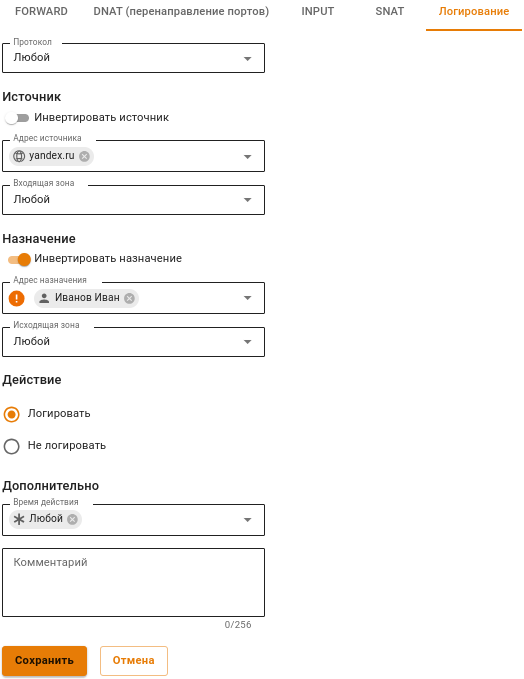
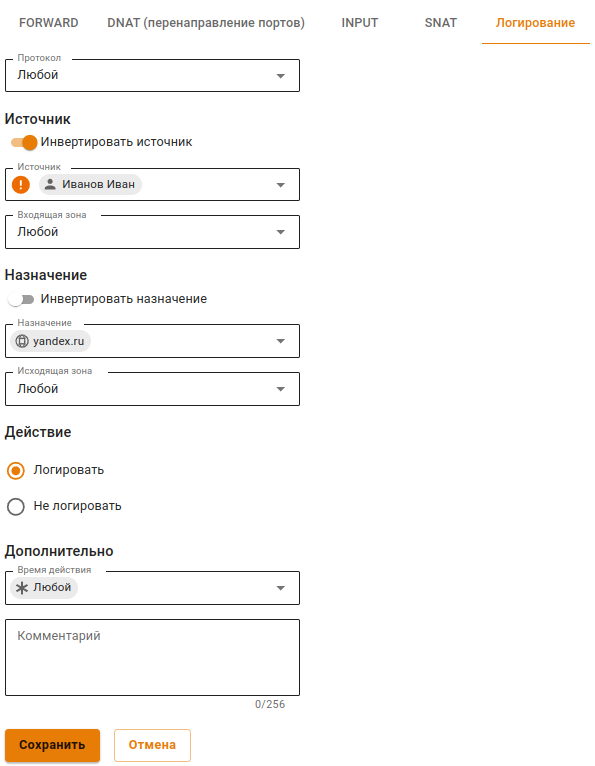
ICS-33917 УТМ. Добавить описание логирования трафика от пользователя

diff --git a/settings/access-rules/logging.md b/settings/access-rules/logging.md
@@ -4,13 +4,13 @@ description: Логирование срабатывания правил Фай
 
 # Логирование
 
-## Принцип работы:
+## Принцип работы
 
-Весь поступающий трафик в первую очередь проходит через правила вкладки **Логирование**. Если трафик соответствует критериям таблицы **Трафик для логирования**, то на пакете выставляется виртуальная метка о необходимости логирования. По умолчанию метки нет.
+Весь поступающий трафик в первую очередь проходит через правила вкладки **Логирование**. Если трафик соответствует критериям таблицы **Трафик для логирования**, то на пакете ставится виртуальная метка о необходимости логирования. По умолчанию метки нет.
 
 Также необходимо, чтобы действие в сработавшем правиле файрвола было среди **Действий для логирования** во вкладке **Логирование**. Иначе срабатывание логироваться не будет.
 
-Далее трафик проходит через правила в [таблицах файрвола](firewall-tables.md). Если при срабатывании правила на трафике стояла метка логирования и действие соответствовало выборке **Действий для логирования**, то в логи попадет:
+Далее трафик проходит через правила в [таблицах файрвола](firewall-tables.md). Если при срабатывании правила на трафике стояла метка логирования и действие соответствовало выборке **Действий для логирования**, то в логи попадают:
 
 * стандартные поля логирования;
 * атрибуты пакета, с которым произошло событие (протокол, порты и IP-адреса);
@@ -24,7 +24,7 @@ description: Логирование срабатывания правил Фай
 Включите опцию **Логировать срабатывания правил** для начала логирования.
 {% endhint %}
 
-Такая система ограничений нужна для исключения неподходящего правила файрвола. Логирование всех срабатываний правил файрвола требует дополнительных ресурсов на сервере и затрудняет отладку правил. Если для нормальной работы логирование не требуется, рекомендуем его отключить.
+Такая система ограничений нужна для исключения неподходящих правил файрвола из логирования. Логирование всех срабатываний правил файрвола требует дополнительных ресурсов на сервере и затрудняет отладку правил. Если для нормальной работы логирование не требуется, рекомендуем его отключить.
 
 ## Действия для логирования
 
@@ -37,25 +37,23 @@ description: Логирование срабатывания правил Фай
 
 ## Трафик для логирования
 
-Создайте в таблице правила для трафика, срабатывания которого требуется логировать.
+Создайте в таблице правило для трафика. Если сработает правило файрвола с трафиком, подходящим под правило логирования, то срабатывание правила файрвола будет залогировано.
 
 {% hint style="danger" %}
-Если ни одно правило в таблице не задано, срабатывания правил логироваться не будут.
+Если ни одно правило в таблице не задано, срабатывание правил логироваться не будет.
+
+Правила отметки трафика могут снять отметку с помощью действия **Не логировать** для трафика, помеченного ранее действием **Логировать**.
 {% endhint %}
 
-Применение правил для отметки трафика, подлежащего логированию, проходит всегда по всем правила до конца этой таблицы. Правила не являются конечными, в отличие от таблиц в других вкладках Файрвола.
+Применение правил для отметки трафика, подлежащего проверке, проходит всегда по всем правила до конца этой таблицы.
 
-{% hint style="danger" %}
-Правила пометки трафика могут снять пометку с помощью действия **Не логировать** для трафика, помеченного ранее действием **Логировать**.
-{% endhint %}
-
-Таким образом, предоставляется возможность гибкой выборки трафика, который подлежит логированю срабатывания правил файрвола.
+Таким образом, предоставляется возможность гибкой выборки трафика, который подлежит логированию.
 
 **Пример**: требуется настроить логирование всего трафика на yandex.ru, кроме трафика от пользователя Иванова Ивана:
 
-1\. В поле **Источник** выберите `yandex.ru`.
+1\. В поле **Источник** выберите _Иванова Ивана_ и переведите опцию **Инвертировать источник** в положение **Включен**.
 
-2\. В поле **Назначение** выберите _Иванова Ивана_ и переведите опцию **Инвертировать назначение** в положение **Включен**.
+2\. В поле **Назначение** выберите `yandex.ru`.
 
 3\. Выберите действие **Логировать**:
 
